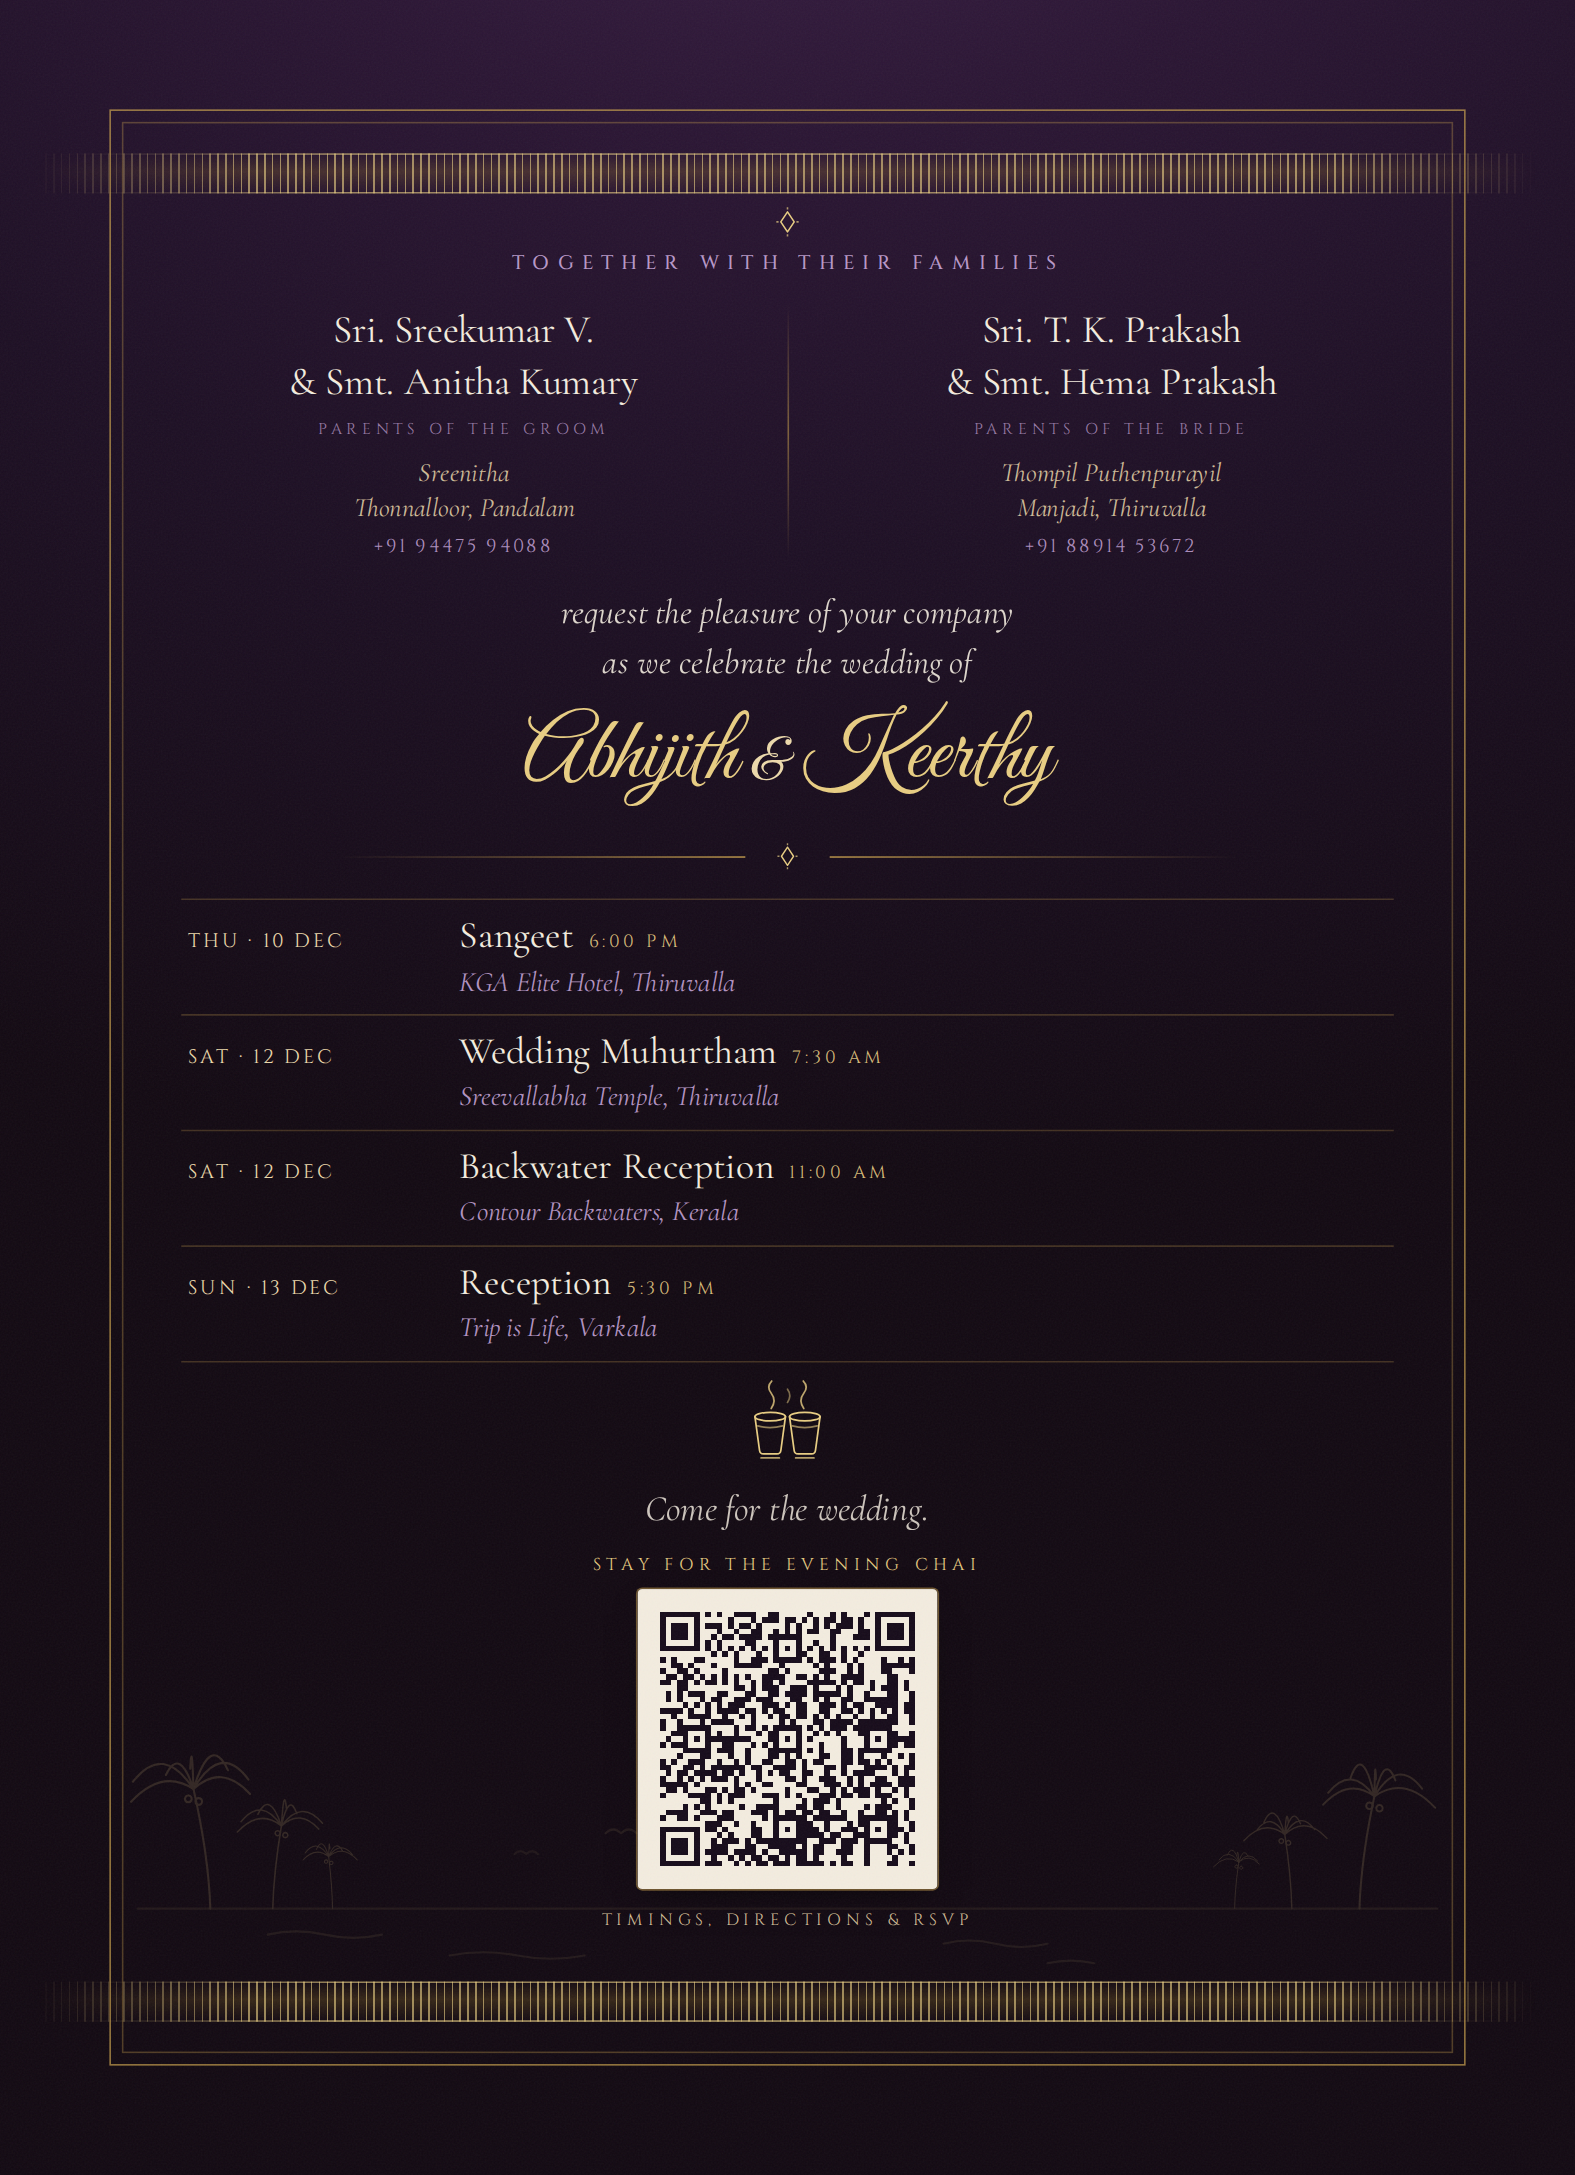
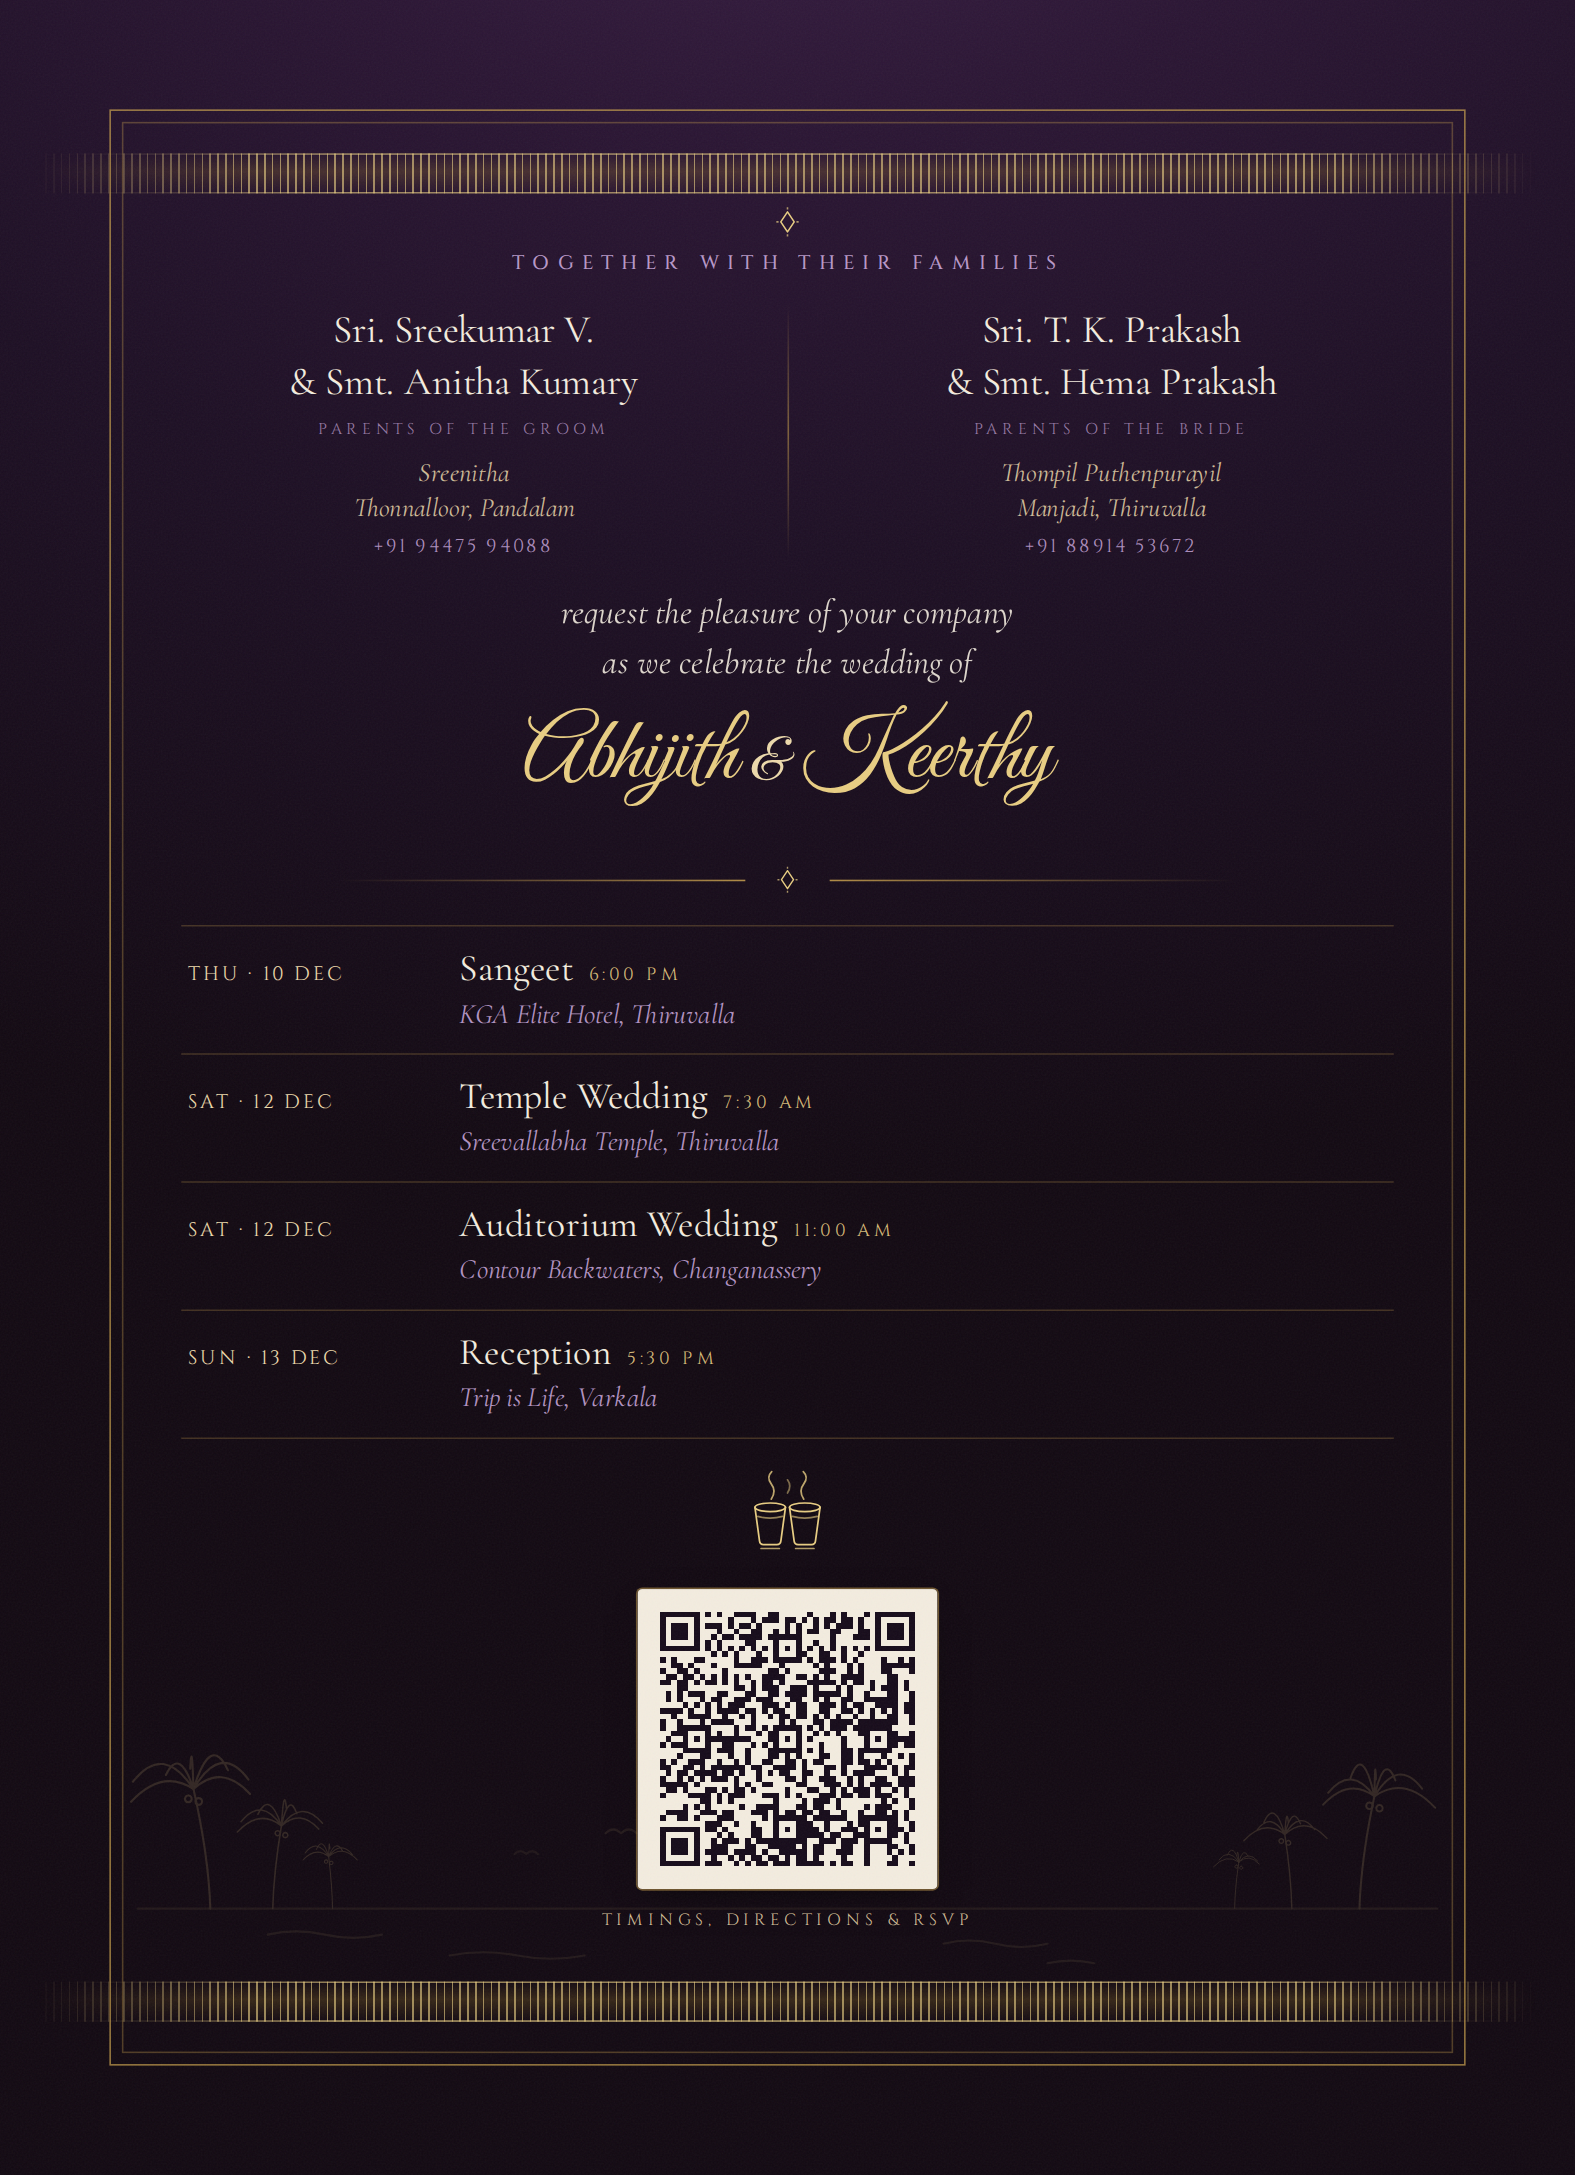
Rename the two wedding events, and fix the Changanassery venue
Site and card together, since the wording has to match:

- "Wedding" -> "Temple Wedding" and "Backwater Reception" -> "Auditorium
  Wedding", in src/data/events.ts and on both card backs.
- That event is at Changanassery, not Thiruvalla: venue, travel note and map
  query updated on the site, venue line updated on the cards.
- Envelope front now reads 12 December rather than the 10-13 range.
- The caption under the chai glasses is gone. The glasses stay, as a mark
  between the schedule and the QR.

Event keys are untouched, so the QR tokens and any link already sent out
still resolve to the same events.

Removing the caption left the leftover space piled into one gap above the QR.
Two auto margins now split it, above the rule and above the QR, so the
schedule sits centred instead of stranded high — most visible on the public
card, which has two rows rather than four.

Claude-Session: https://claude.ai/code/session_01U3eNzvzbkYwe2F9QhNWExs

diff --git a/invitation/card-back.css b/invitation/card-back.css
@@ -89,13 +89,14 @@
 
 .section-rule {
   width: 100%;
-  margin-top: 16px;
+  margin-top: auto;
+  padding-top: 16px;
 }
 .section-rule .line { max-width: 260px; }
 
 .events {
   width: 100%;
-  margin-top: 18px;
+  margin-top: 20px;
 }
 
 .ev {
@@ -104,7 +105,7 @@
   align-items: baseline;
   column-gap: 22px;
   text-align: left;
-  padding: 9px 4px 10px;
+  padding: 13px 4px 14px;
   border-bottom: 0.75px solid rgba(203, 162, 77, 0.26);
 }
 .ev:first-child {
@@ -155,37 +156,19 @@
   margin-top: 26px;
 }
 
-/* --- the chai line ------------------------------------------------------- */
+/* --- the chai glasses ----------------------------------------------------
+   Kept as a mark between the schedule and the QR. It carries its own meaning
+   without a caption under it, and it echoes the divider on the card front. */
 
-.chai-block {
+.chai-mark {
   margin-top: auto;
-  padding-top: 6px;
-  display: flex;
-  flex-direction: column;
-  align-items: center;
-}
-
-.chai-line {
-  font-size: 23px;
-  line-height: 1.35;
-  margin-top: 10px;
-  color: rgba(243, 236, 223, 0.92);
-}
-
-.chai-call {
-  font-family: var(--font-label);
-  text-transform: uppercase;
-  font-size: 11px;
-  letter-spacing: 0.32em;
-  color: var(--gold-bright);
-  margin-top: 12px;
 }
 
 /* --- QR ------------------------------------------------------------------ */
 
 .qr-block {
   margin-top: auto;
-  padding-top: 8px;
+  padding-top: 4px;
   display: flex;
   flex-direction: column;
   align-items: center;

diff --git a/invitation/card-back-all.html b/invitation/card-back-all.html
@@ -61,15 +61,15 @@
         <div class="ev">
           <span class="day">Sat &middot; 12 Dec</span>
           <span>
-            <span class="what">Wedding Muhurtham<span class="time">7:30 AM</span></span>
+            <span class="what">Temple Wedding<span class="time">7:30 AM</span></span>
             <span class="venue">Sreevallabha Temple, Thiruvalla</span>
           </span>
         </div>
         <div class="ev">
           <span class="day">Sat &middot; 12 Dec</span>
           <span>
-            <span class="what">Backwater Reception<span class="time">11:00 AM</span></span>
-            <span class="venue">Contour Backwaters, Kerala</span>
+            <span class="what">Auditorium Wedding<span class="time">11:00 AM</span></span>
+            <span class="venue">Contour Backwaters, Changanassery</span>
           </span>
         </div>
         <div class="ev">
@@ -81,11 +81,7 @@
         </div>
       </div>
 
-      <div class="chai-block">
-        <span class="motif" data-motif="chai" data-w="86"></span>
-        <p class="chai-line serif-italic">Come for the wedding.</p>
-        <p class="chai-call">Stay for the evening chai</p>
-      </div>
+      <span class="motif chai-mark" data-motif="chai" data-w="86"></span>
 
       <div class="qr-block">
         <img src="assets/qr-all.png" alt="">

diff --git a/invitation/card-back-public.html b/invitation/card-back-public.html
@@ -56,24 +56,20 @@
         <div class="ev">
           <span class="day">Morning</span>
           <span>
-            <span class="what">Wedding Muhurtham<span class="time">7:30 AM</span></span>
+            <span class="what">Temple Wedding<span class="time">7:30 AM</span></span>
             <span class="venue">Sreevallabha Temple, Thiruvalla</span>
           </span>
         </div>
         <div class="ev">
           <span class="day">Late morning</span>
           <span>
-            <span class="what">Backwater Reception<span class="time">11:00 AM</span></span>
-            <span class="venue">Contour Backwaters, Kerala</span>
+            <span class="what">Auditorium Wedding<span class="time">11:00 AM</span></span>
+            <span class="venue">Contour Backwaters, Changanassery</span>
           </span>
         </div>
       </div>
 
-      <div class="chai-block">
-        <span class="motif" data-motif="chai" data-w="86"></span>
-        <p class="chai-line serif-italic">Come for the wedding.</p>
-        <p class="chai-call">Stay for the evening chai</p>
-      </div>
+      <span class="motif chai-mark" data-motif="chai" data-w="86"></span>
 
       <div class="qr-block">
         <img src="assets/qr-public.png" alt="">

diff --git a/src/data/events.ts b/src/data/events.ts
@@ -30,7 +30,7 @@ export const EVENTS: WeddingEvent[] = [
   },
   {
     key: 'wedding',
-    label: 'Wedding',
+    label: 'Temple Wedding',
     dayLabel: 'Sat · 12 December',
     date: '2026-12-12T07:30:00+05:30',
     timeLabel: 'Morning muhurtham · 7:30 AM',
@@ -44,13 +44,13 @@ export const EVENTS: WeddingEvent[] = [
   },
   {
     key: 'backwater',
-    label: 'Backwater Reception',
+    label: 'Auditorium Wedding',
     dayLabel: 'Sat · 12 December',
     date: '2026-12-12T11:00:00+05:30',
     timeLabel: 'Afternoon · 11:00 AM',
-    venueName: 'Contour Backwaters, Kerala',
-    travelNote: 'Nearest Railway station: Thiruvalla · Buses provided',
-    mapQuery: 'Contour Backwaters Kerala',
+    venueName: 'Contour Backwaters, Changanassery, Kerala',
+    travelNote: 'Nearest Railway station: Changanassery',
+    mapQuery: 'Contour Backwaters Changanassery Kerala',
     extraLink: {
       label: 'Venue Website',
       href: 'https://contourbackwaters.com/'

diff --git a/src/hooks/useGuestSelection.ts b/src/hooks/useGuestSelection.ts
@@ -22,7 +22,7 @@ export function useGuestSelection() {
     parsedEvents = eventsParam.split(',').filter((k) => ALL_EVENT_KEYS.includes(k as EventKey)) as EventKey[];
   }
 
-  // If "wedding" is selected, ALWAYS include the Contour Backwaters reception too
+  // If "wedding" is selected, ALWAYS include the auditorium wedding too
   if (parsedEvents.includes('wedding') && !parsedEvents.includes('backwater')) {
     parsedEvents.push('backwater');
   }

diff --git a/invitation/envelope-front.html b/invitation/envelope-front.html
@@ -152,7 +152,7 @@
           </span>
           <!-- ================================================= -->
         </div>
-        <p class="label when">10 &ndash; 13 December<br>2026</p>
+        <p class="label when">12 December<br>2026</p>
       </div>
     </div>
   </div>

diff --git a/invitation/README.md b/invitation/README.md
@@ -98,8 +98,8 @@ the same thing `/#/invite` produces, minus the guest's name.
 
 | Version | QR opens | Shows |
 | --- | --- | --- |
-| `card-back-all-*` | `…/#/?invite=…` | Sangeet, wedding, backwater reception, reception |
-| `card-back-public-*` | the bare site URL | Wedding + backwater reception |
+| `card-back-all-*` | `…/#/?invite=…` | Sangeet, temple wedding, auditorium wedding, reception |
+| `card-back-public-*` | the bare site URL | Temple wedding + auditorium wedding |
 
 The QR is identical on both sides of a given version — it points at the events,
 not at a family.
@@ -107,15 +107,18 @@ not at a family.
 Two things to know, both coming from the site's own behaviour in
 `src/hooks/useGuestSelection.ts`:
 
-1. **The temple wedding and the backwater reception are inseparable on the
-   site.** Line 26 adds `backwater` whenever `wedding` is selected. So a truly
-   wedding-only card is not something the site can currently show — the public
-   card lists both, which is what its QR opens. To decouple them, delete that
-   `if` block in `useGuestSelection.ts` and change the public card's QR to an
-   explicit `invite` token.
-2. **The bare URL is not "everything".** It defaults to wedding + backwater,
-   which is exactly the public guest list — so the public card uses it as-is.
-   That also keeps its URL short, which matters (see below).
+1. **The temple wedding and the auditorium wedding are inseparable on the
+   site.** Line 26 adds `backwater` whenever `wedding` is selected. So a
+   temple-wedding-only card is not something the site can currently show — the
+   public card lists both, which is what its QR opens. To decouple them, delete
+   that `if` block in `useGuestSelection.ts` and change the public card's QR to
+   an explicit `invite` token.
+2. **The bare URL is not "everything".** It defaults to temple + auditorium
+   wedding, which is exactly the public guest list — so the public card uses it
+   as-is. That also keeps its URL short, which matters (see below).
+
+Event names and venues are kept in step with `src/data/events.ts` by hand — the
+card is static artwork and does not read from the site.
 
 ### Why the QR is a cream tile
 

diff --git a/README.md b/README.md
@@ -13,7 +13,7 @@ npm run preview # preview the production build locally
 ```
 
 ## Structure
-- `src/data/events.ts` — the 4 events (Sangeet/Wedding/Backwater/Reception): dates, venues, map links. Edit here.
+- `src/data/events.ts` — the 4 events (Sangeet / Temple Wedding / Auditorium Wedding / Reception): dates, venues, map links. Edit here.
 - `src/components/` — one file per section (Hero, EventsTimeline, Gallery, Registry, RSVP, Travel, ...)
 - `src/WeddingSite.tsx` — the guest-facing page, assembles all sections
 - `src/LinkGenerator.tsx` — **private** page (`/#/invite`) that builds each guest's personal link
@@ -21,7 +21,7 @@ npm run preview # preview the production build locally
 
 ## Things to fill in before sending links
 1. **Love story** — edit the placeholder paragraph in `src/components/Story.tsx`.
-2. **Sangeet & backwater venue addresses** — in `src/data/events.ts`, currently "coming soon" / a generic map search query.
+2. **Sangeet venue address** — in `src/data/events.ts`, currently a generic map search query.
 3. **Event times** — every event currently shows "Time to be announced". Once muhurtham/timings are fixed, update both `timeLabel` (what guests see) and `date` (drives the countdown) for each event in `src/data/events.ts`.
 4. **RSVP form** — create a Google Form, then Send → embed (`<>`) icon → copy the `src` URL → paste it into the `iframe` in `src/components/RSVP.tsx` (currently `src="about:blank"`).
 5. **Honeymoon fund / UPI ID** — replace the placeholder in `src/components/Registry.tsx` (`UPI_ID` constant) with the real one, or swap the wording for a registry link instead.
